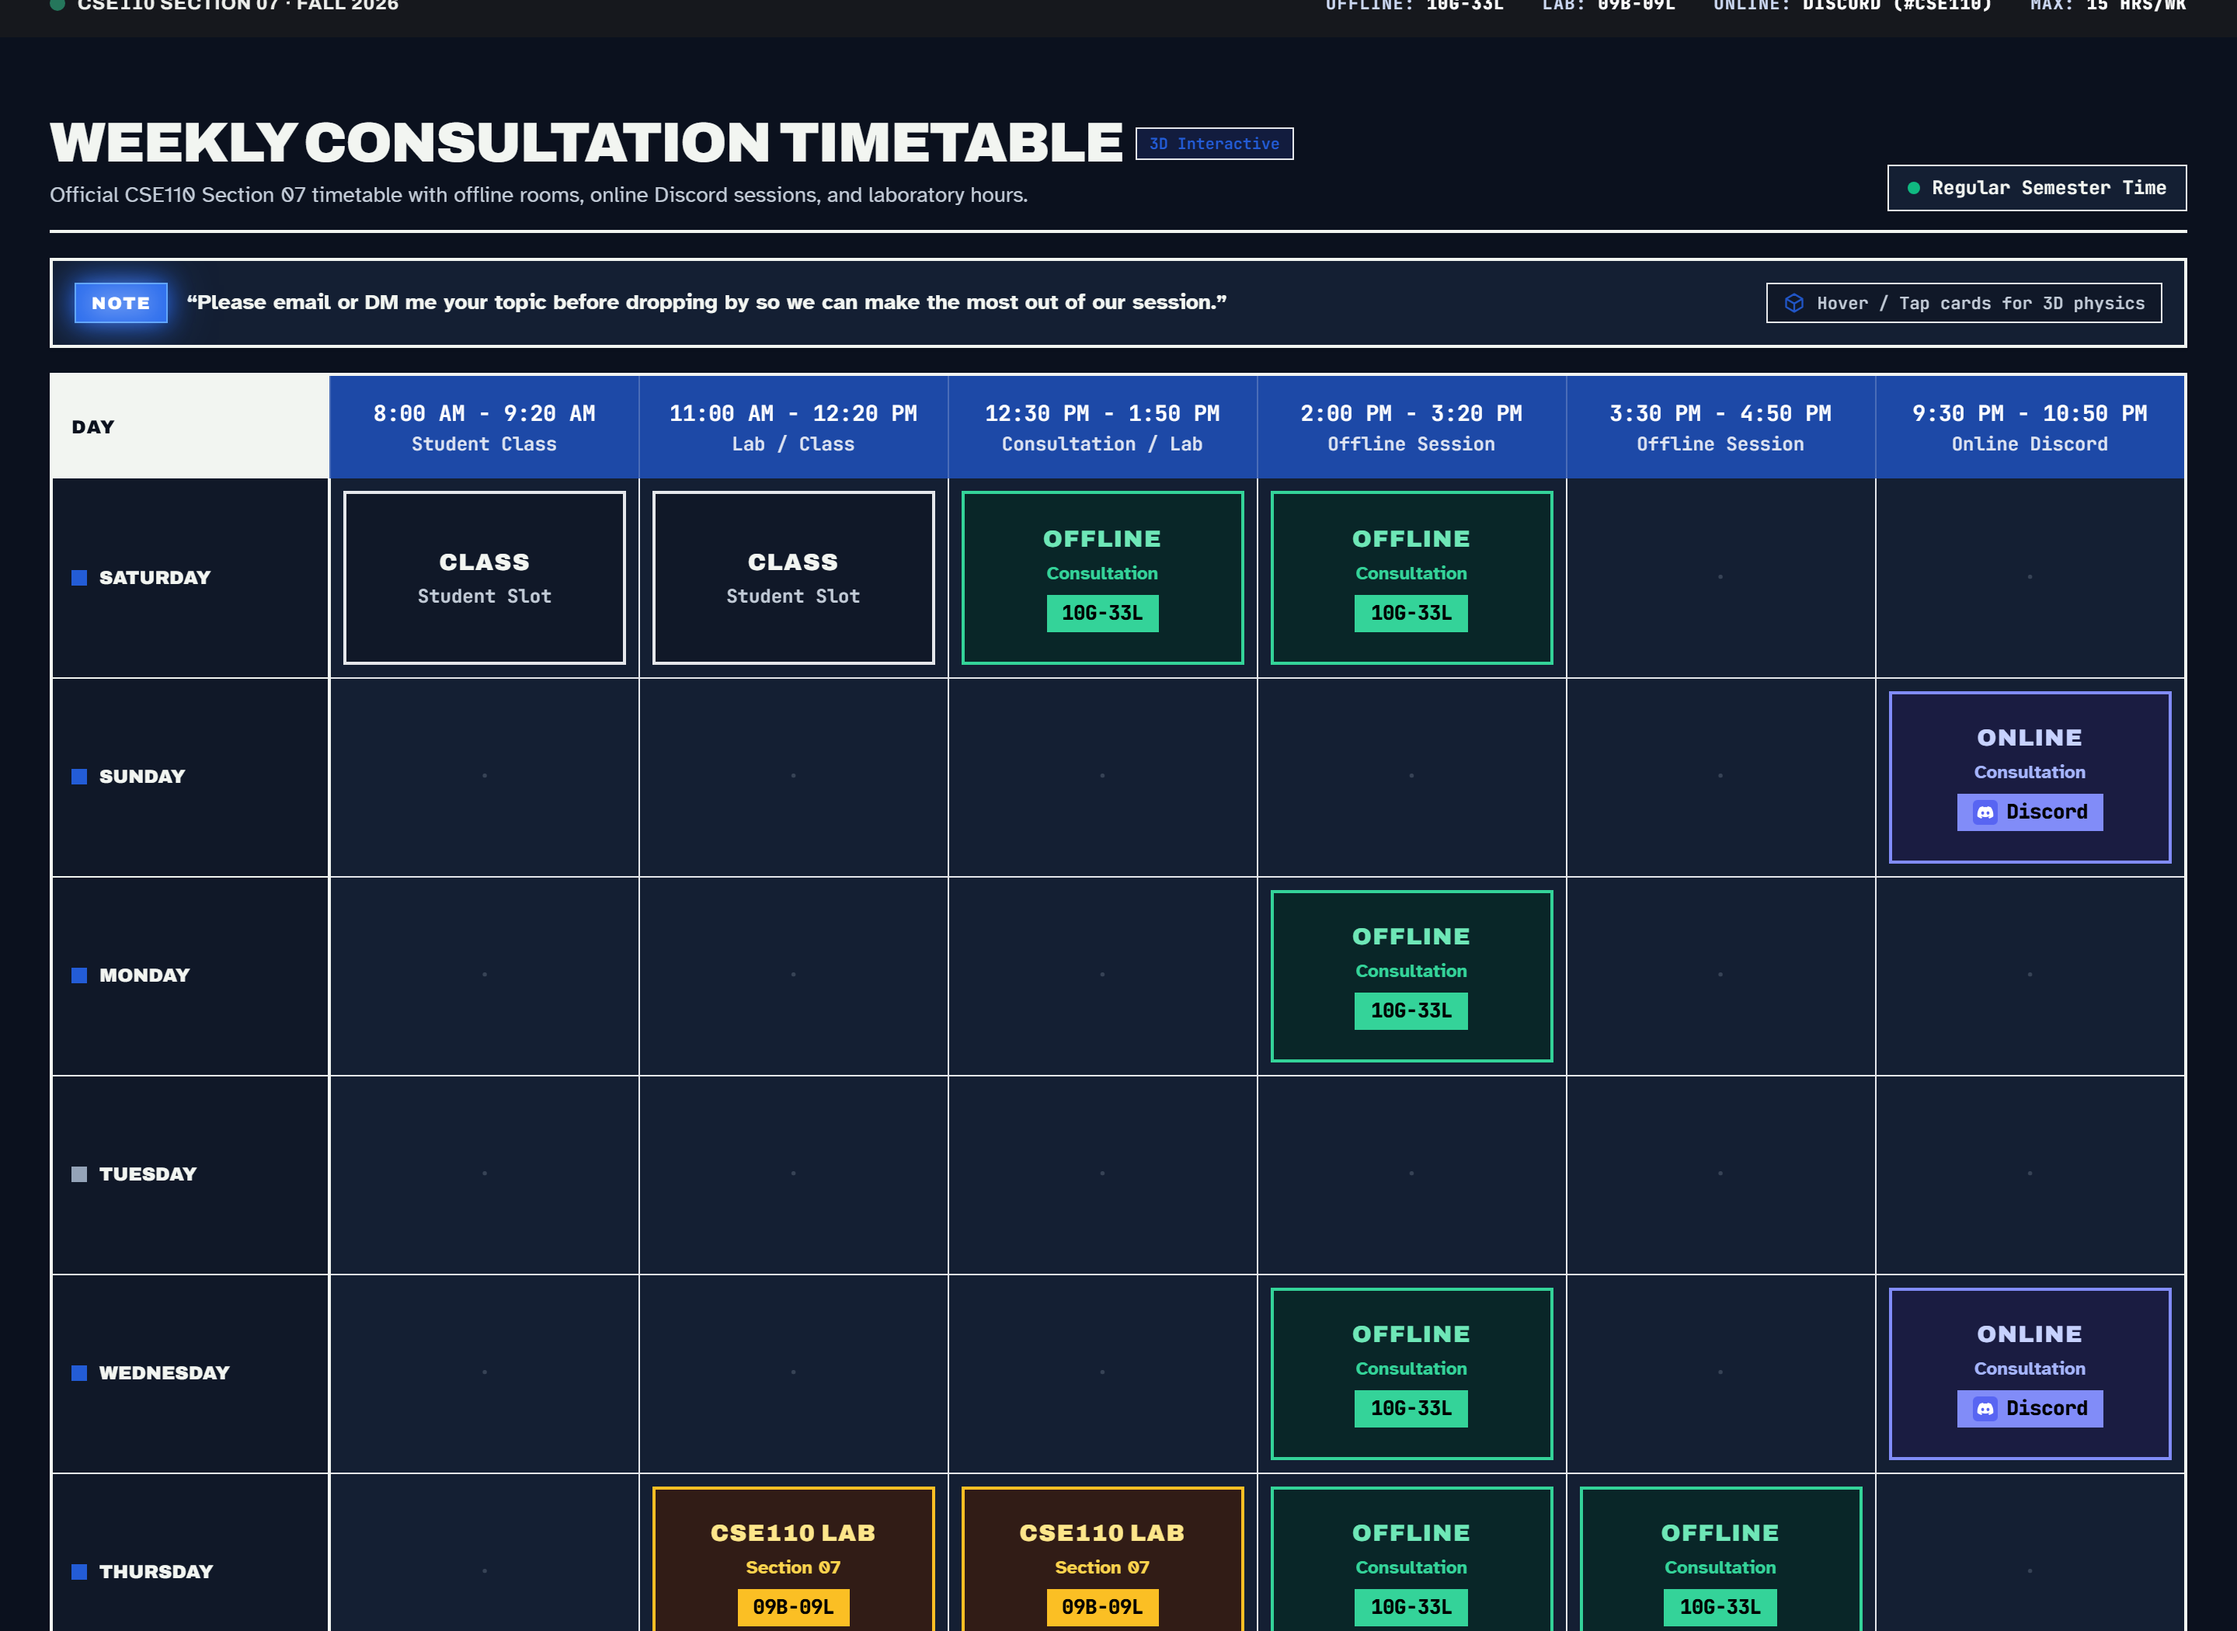
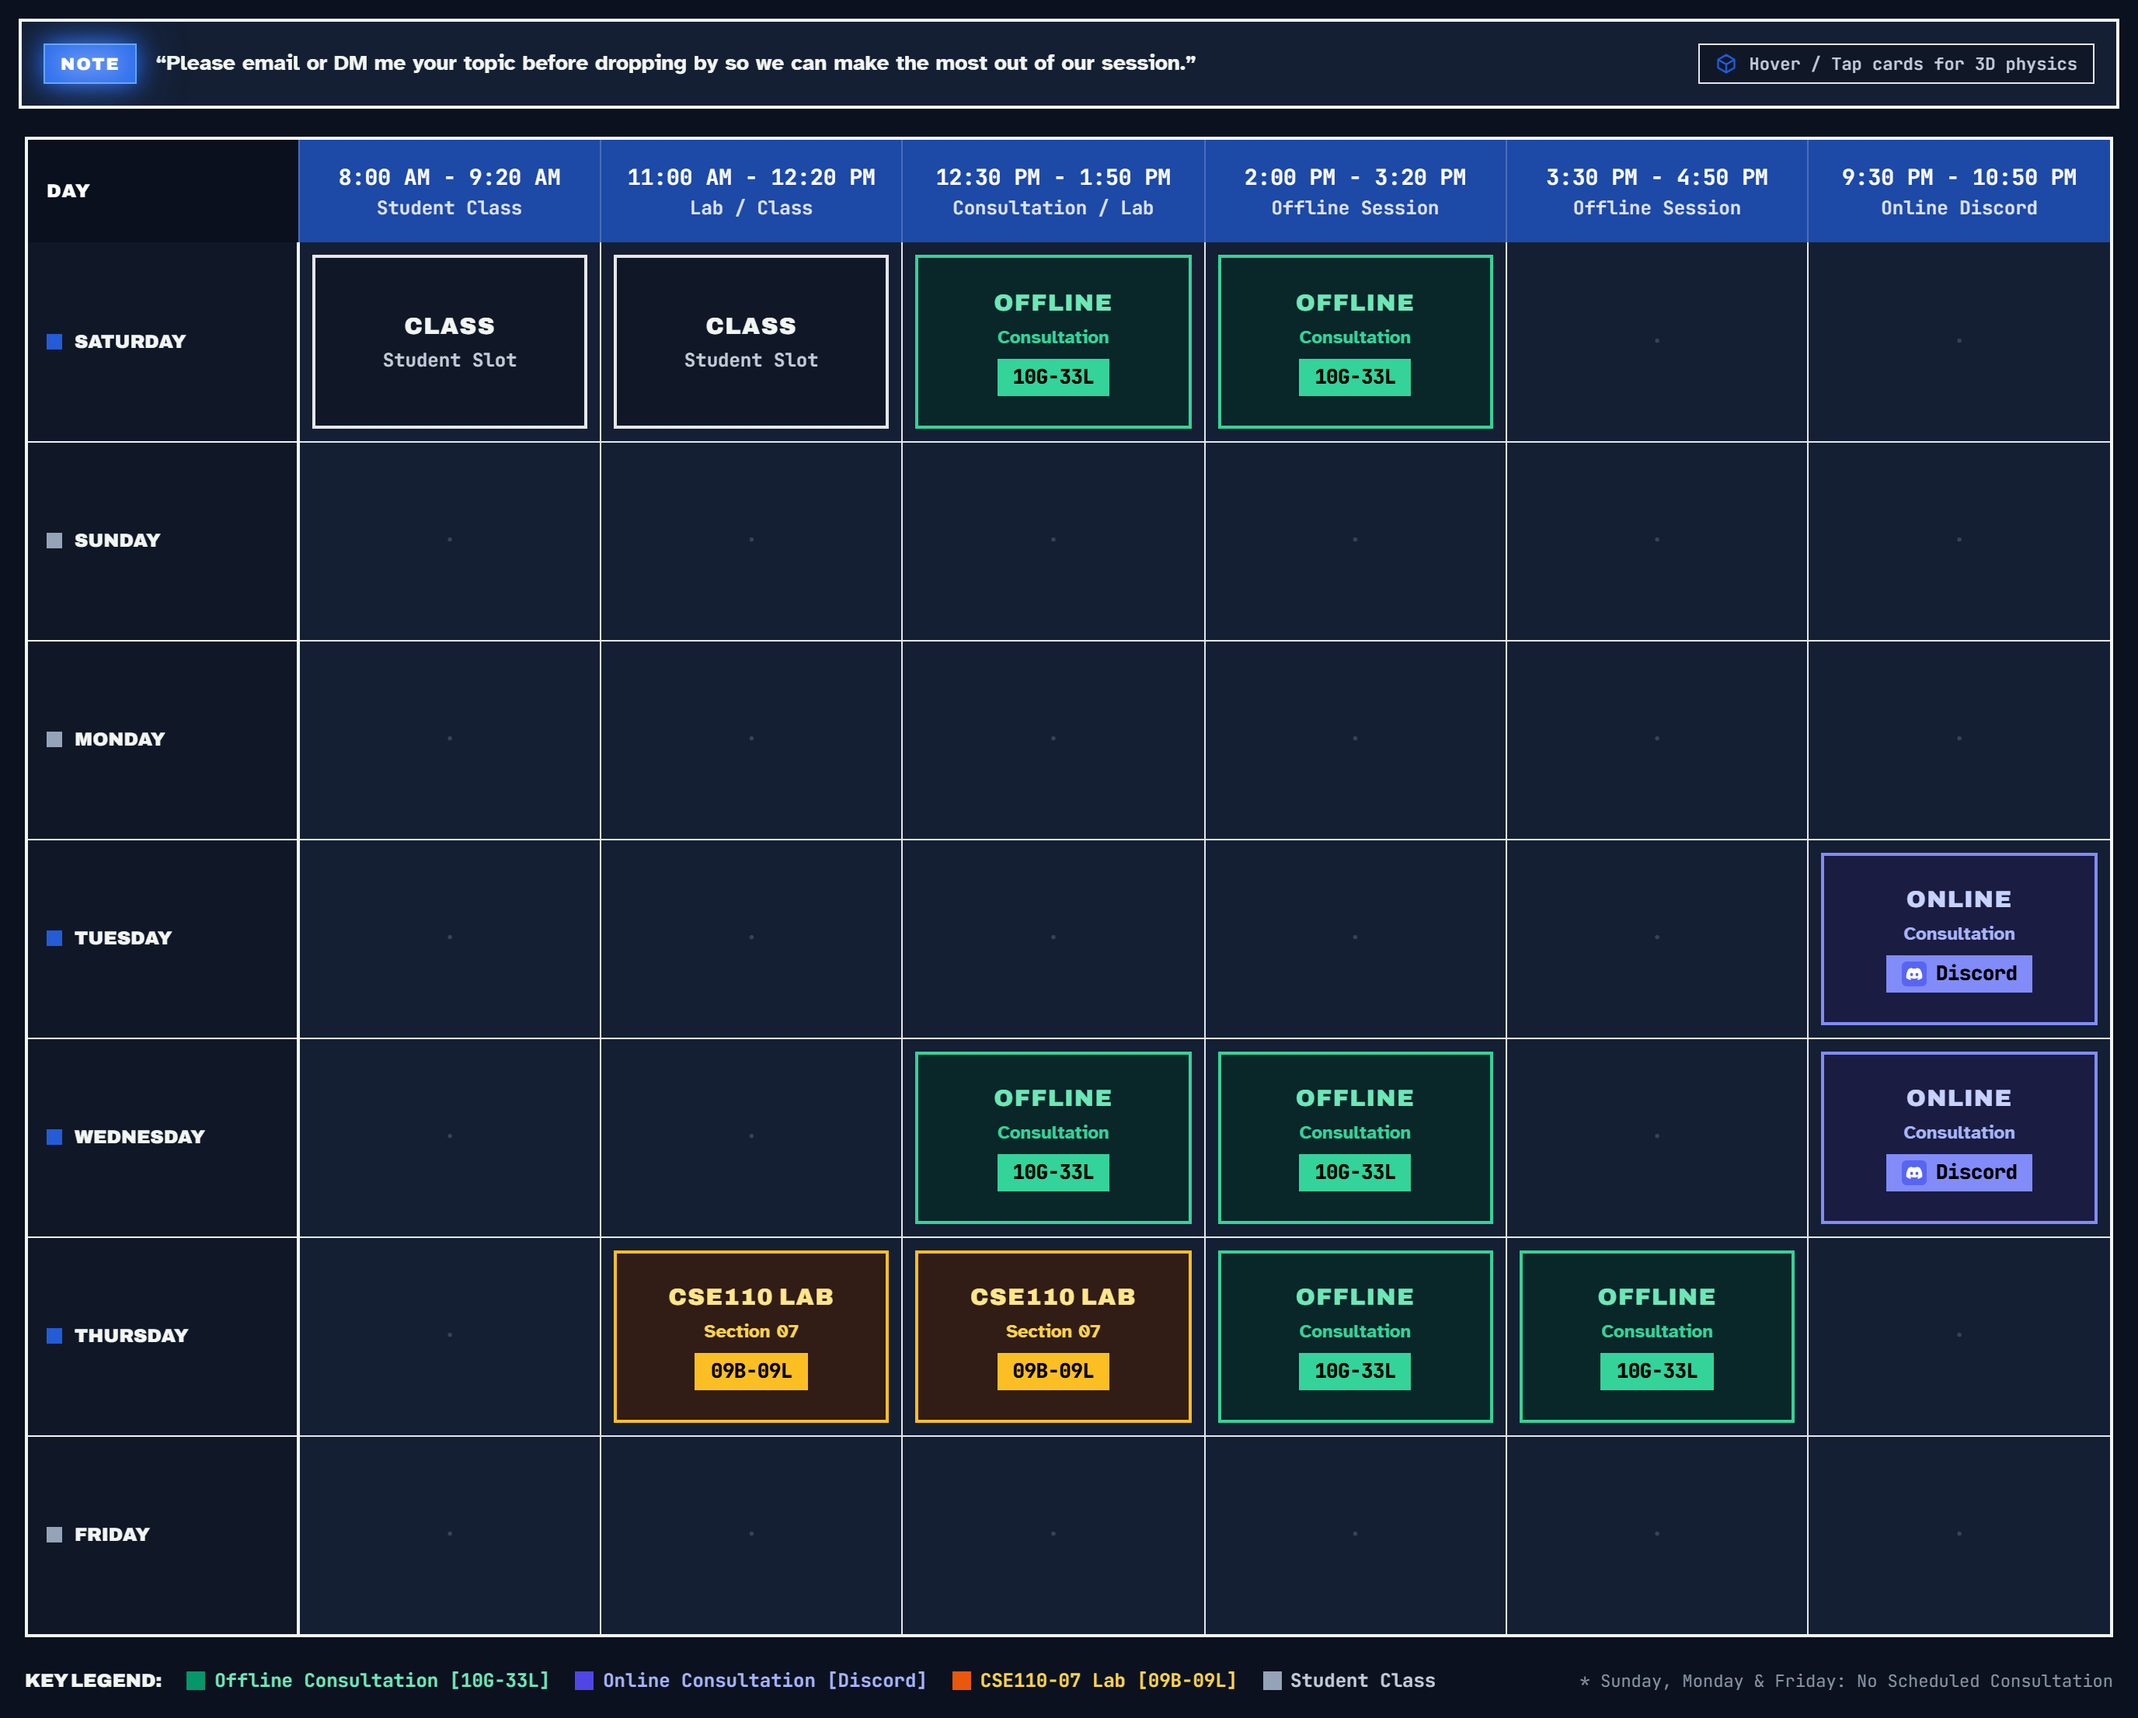
docs: update README and showcase screenshots with new consultation routine and mobile view

diff --git a/README.md b/README.md
@@ -32,9 +32,9 @@
 
 ---
 
-| The Routine | The Inspector | The Composer |
-| :---: | :---: | :---: |
-| <img src="./showcase_schedule.png" alt="Weekly Schedule Matrix" width="100%" /> | <img src="./showcase_modal.png" alt="Session Inspector Modal" width="100%" /> | <img src="./showcase_composer.png" alt="Consultation Request Composer" width="100%" /> |
+| Routine Matrix | Session Inspector | Consultation Composer | Mobile View |
+| :---: | :---: | :---: | :---: |
+| <img src="./showcase_timetable_matrix.png" alt="Weekly Schedule Matrix" width="100%" /> | <img src="./showcase_modal.png" alt="Session Inspector Modal" width="100%" /> | <img src="./showcase_composer.png" alt="Consultation Request Composer" width="100%" /> | <img src="./showcase_mobile.png" alt="Mobile Responsive View" width="100%" /> |
 
 ---
 
@@ -99,6 +99,11 @@ Students can select their current syllabus module with a single click in the com
 <p align="center">
   <img src="./showcase_timetable_matrix.png" alt="Official Weekly Consultation Timetable Matrix - BRAC University CSE110 Section 07" width="100%" />
 </p>
+
+> [!TIP]
+> Download the official high-resolution consultation routine cards:
+> - [Dark Blueprint Edition (JPEG)](./timetable_routine_dark.jpg)
+> - [Light Technical Paper Edition (JPEG)](./timetable_routine_light.jpg)
 
 ### Active Time Matrix (80-Minute Academic Blocks)
 * **Slot 1 (8:00 AM - 9:20 AM)**: Student Class
@@ -196,6 +201,7 @@ npm run preview
 ## Student Tutor Dossier
 
 * **Tutor Name**: Imtiaz Hossain
+* **Student ID**: 23101137
 * **Initial**: T07
 * **Role**: Student Tutor (ST)
 * **Department**: Department of Computer Science and Engineering, BRAC University
